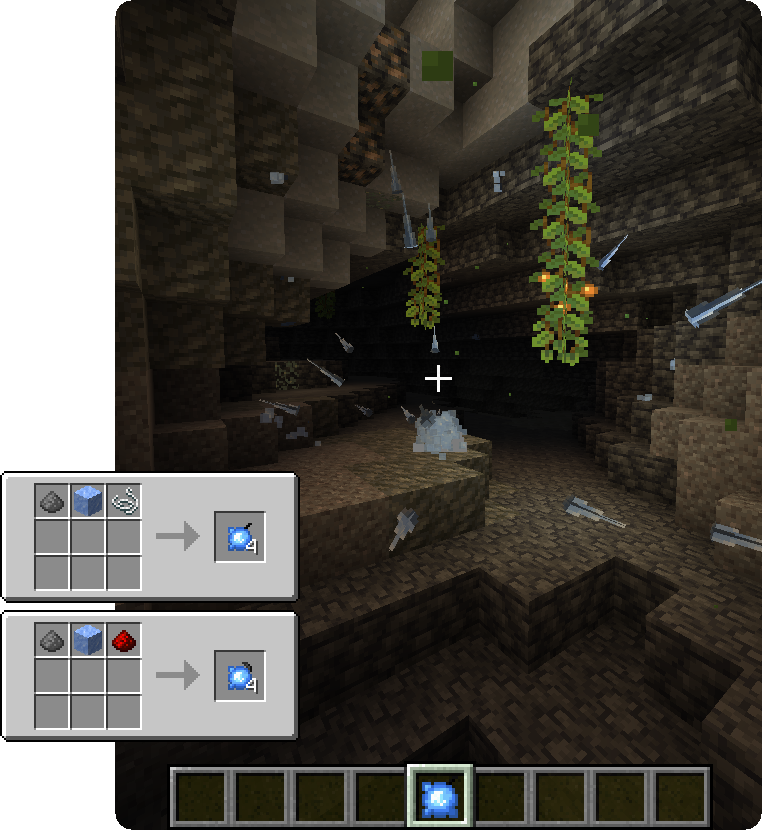
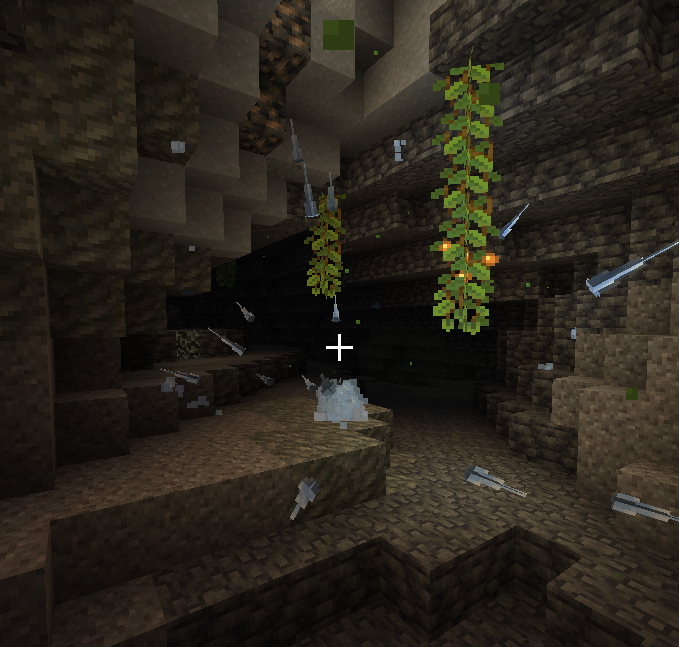
Finish converting bomb item showcases to dynamic figures

diff --git a/public/wiki/blast/bomb_table.scss b/public/wiki/blast/bomb_table.scss
@@ -94,23 +94,31 @@
 
 .bomb-showcase {
   position: relative;
-  width: 100%;
-  margin: 0;
+  margin: 1em;
   display: flex;
   flex-direction: column;
 
   & > div {
-    display: none;
     position: absolute;
+    display: flex;
     flex-direction: column;
     font-size: 21px;
+  }
 
-    @include desktop {
-      display: flex;
-    }
+  & > img {
+    width: auto;
+    height: auto;
   }
 
   .mcui {
-    font-size: inherit;
+    font-size: 100%;
+
+    @include tablet {
+      font-size: 80%;
+    }
+
+    @include mobile {
+      font-size: Max(50%, 14px);
+    }
   }
 }

diff --git a/public/_sass/parts/mc.scss b/public/_sass/parts/mc.scss
@@ -111,13 +111,18 @@
   }
 }
 
+figure.recipes {
+  font-size: 26.5px;
+  margin-left: 0.9em;
+}
+
 .mcui {
   user-select: none;
   position: relative;
   font-size: 20px;
 
-  figure.recipes & {
-    font-size: 26.5px;
+  figure & {
+    font-size: inherit;
   }
 }
 

diff --git a/public/wiki/blast/index.md b/public/wiki/blast/index.md
@@ -102,7 +102,7 @@ Dirt Bombs can be crafted by surrounding normal bombs with 8 Dirt Blocks. Instea
 {% recipe "blast:dirt_bomb" %}
 {% recipe "blast:dirt_trigger_bomb" %}
 </div>
-<img src="./DirtBombs.png" alt="Dirt Bombs"/>
+<img src="./DirtBombs.png" alt="Dirt Bomb exploding" class="rounded" width="1168" height="882" style="width: 80%; height: auto; align-self: end"/>
 </figure>
 
 ### Pearl Bombs
@@ -110,42 +110,68 @@ Dirt Bombs can be crafted by surrounding normal bombs with 8 Dirt Blocks. Instea
 Crafted like normal bombs with an Enderpearl as base material, this bomb has a **silk touch effect on all blocks in the explosion** radius. As a side effect, it will also **randomly teleport entities** that get caught in the explosion.
 
 <figure class="bomb-showcase">
-<div style="bottom:1.7em; right:0; gap: 1em; font-size: 20px">
+<div style="font-size: 20px; bottom:1.7em; right:0; gap: 1em">
 {% recipe "blast:pearl_bomb" %}
 {% recipe "blast:pearl_trigger_bomb" %}
 </div>
-<img src="./PearlBombs.png" alt="Pearl Bomb Explosion" width="493" height="368" class="rounded" style="width: 90%; height: auto"/>
+<img src="./PearlBombs.png" alt="Pearl Bomb exploding" width="493" height="368" class="rounded" style="width: 90%; height: auto"/>
 </figure>
 
 ### Confetti Bombs
 
 Confetti Bombs come, as most other bombs, in 2 variants: As a trigger bomb and as a timed bomb. Instead of blowing your world up however, Confetti bombs make it prettier: **They will spread confetti particles upon exploding!** Those particles come in multiple different colours and **remain on the ground for 1 minute** after the explosion. Confetti Bombs are crafted shapelessly with 7 Paper, 1 Gunpowder and either 1 String (timed) or 1 Redstone Dust (trigger).
 
-![Confetti Bombs](ConfettiBombs.png)
+<figure class="bomb-showcase">
+<div style="font-size: 22px; top:1.4em; left:0; gap: 1.6em">
+{% recipe "blast:confetti_bomb" %}
+{% recipe "blast:confetti_trigger_bomb" %}
+</div>
+<img src="./ConfettiBombs.png" alt="Confetti Bomb exploding" class="rounded" width="899" height="889" style="align-self: end"/>
+</figure>
 
 ### Slime Bombs
 
 Slime Bombs can be crafted using **1 gunpowder, 1 Slimeball and 1 String/Redstone Dust**. Slime Bombs do **not deal any damage** to entities but have **increased knockback!**
 
-![Slime Bomb](SlimeBomb.png)
+<figure class="bomb-showcase">
+<div style="font-size: 18px; bottom:2em; left:2em; gap: 0.4em">
+{% recipe "blast:slime_bomb" %}
+{% recipe "blast:slime_trigger_bomb" %}
+</div>
+<img src="./SlimeBomb.png" alt="Slime Bomb exploding" class="rounded" width="813" height="489" style="width: 60em; align-self: center"/>
+</figure>
 
 ### Amethyst Bombs
 
 Crafted like any other bomb with an **Amethyst Block as base material**, the Amethyst Bomb **adds 70 amethyst shards to your explosion**, at the **cost of the normal explosion damage**. These shards will spread in all directions and **deal 8 damage (4 hearts) per shard**.
 
-![Amethyst Bomb](AmethystBomb.png)
+<figure class="bomb-showcase">
+<div style="font-size: 18px; bottom:2em; right: 2em; gap: 0.4em">
+{% recipe "blast:amethyst_bomb" %}
+{% recipe "blast:amethyst_trigger_bomb" %}
+</div>
+<img src="./AmethystBomb.png" alt="Amethyst Bomb exploding" class="rounded" width="627" height="763" style="width: 40em; align-self: end; margin-right: 10em; max-width: calc(100% - 10em)"/>
+</figure>
 
 ### Frost Bombs
 
 Being an alternative to Amethyst Bombs, Frost Bombs are crafted by adding **Packed Ice as base material** and **replace the amethyst shards with icicles.** These icicles deal only **0.01 damage** but **apply freezing effects** to their targets, bypassing armor without damaging it.
 
-![Frost Bomb](FrostBomb.png)
+<figure class="bomb-showcase">
+<div style="font-size: 18px; bottom:2em; left: 2em; gap: 0.4em">
+{% recipe "blast:frost_bomb" %}
+{% recipe "blast:frost_trigger_bomb" %}
+</div>
+<img src="./FrostBomb.png" alt="Frost Bomb exploding" class="rounded" width="679" height="647" style="width: 40em; margin-left: 10em; max-width: calc(100% - 10em)"/>
+</figure>
 
 ### Naval Mines
 
 Naval Mines are bombs that trigger on impact and **can destroy blocks underwater**. In comparison to standard bombs the naval mine has an explosion power of 4 and **only** exists as a **trigger bomb** variant.
 
-![Naval Mine Recipe](NavalMineRecipe.png)
+<figure class="recipes">
+{% recipe "blast:naval_mine" %}
+</figure>
 
 
 
@@ -227,9 +253,9 @@ Sorry, we **don't** port our mods to forge or backport them for various reasons.
 
 # Gallery
 
-![Mining Tunnel](MiningTunnel.png)
+![Mining Tunnel](MiningTunnel.png){:.rounded}
 
-![Naval Mines](NavalMines.png)
+![Naval Mines](NavalMines.png){:.rounded}
 
-![Confetti Rain](ConfettiRain.png)
+![Confetti Rain](ConfettiRain.png){:.rounded}
 
